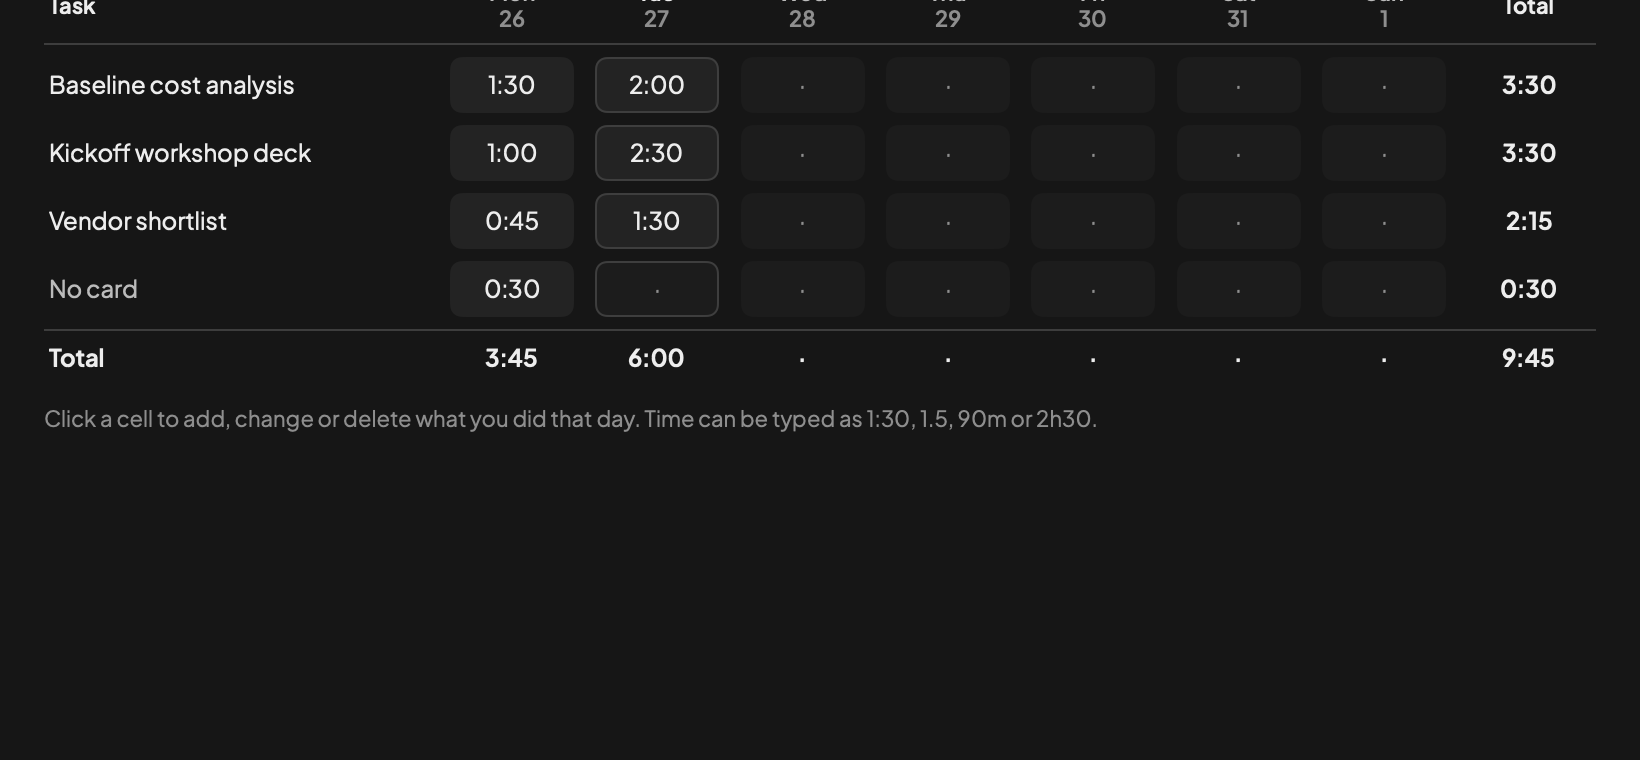
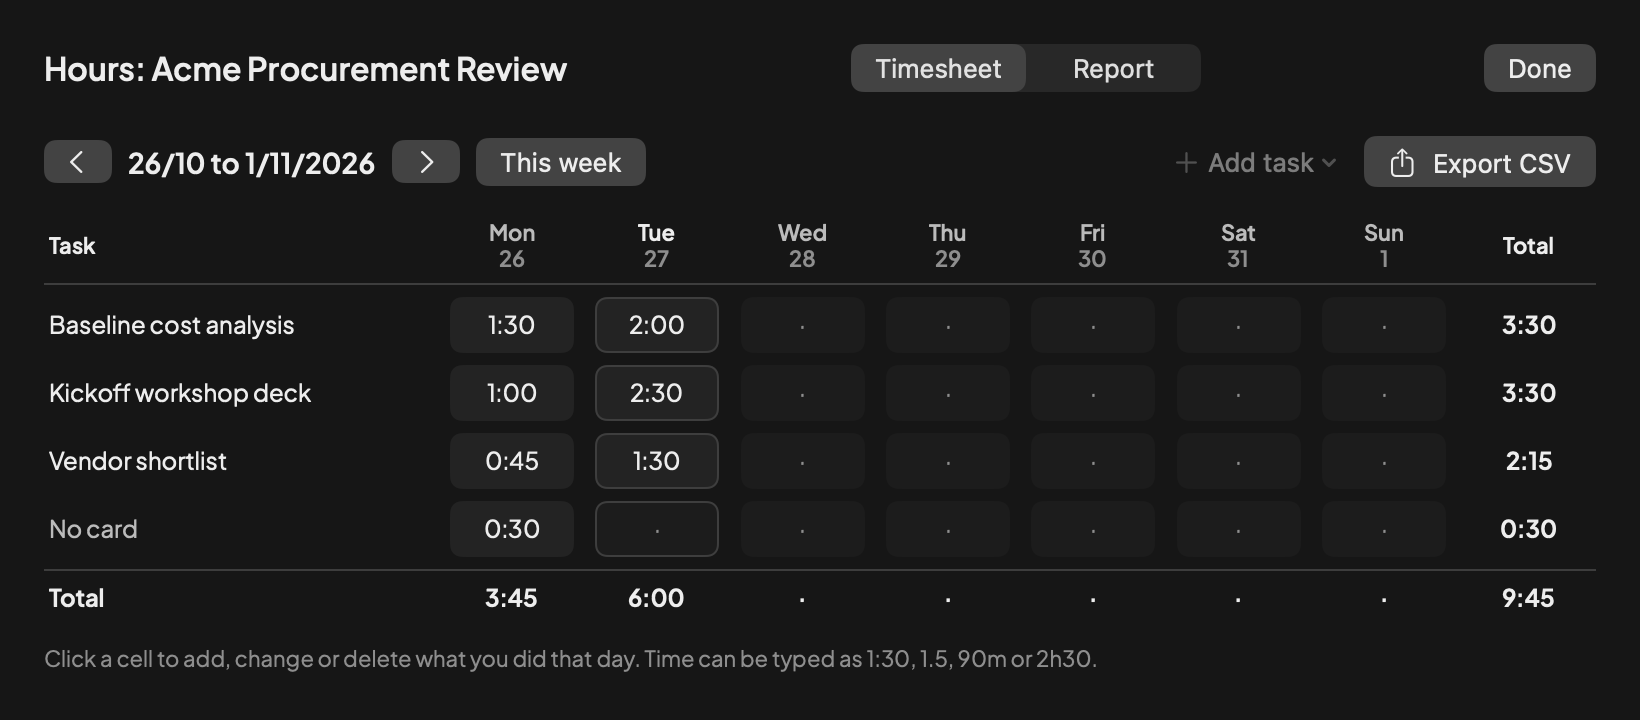
#6 Show the full Hours window in the README and drop source-origin comments

diff --git a/Sources/KanbanCore/TrelloImport.swift b/Sources/KanbanCore/TrelloImport.swift
@@ -1,6 +1,6 @@
 import Foundation
 
-/// Reads a Trello board as returned by the Trello REST API (the shape Kan's importer uses).
+/// Reads a Trello board as returned by the Trello REST API.
 /// Every field is optional so a missing key never aborts the import. Whether the file produced by Trello's
 /// "Export as JSON" has exactly these keys is not confirmed by the documentation I read; check with a real export.
 public enum TrelloImporter {
@@ -10,7 +10,7 @@ public enum TrelloImporter {
         public var errorDescription: String? { "This file does not look like a Trello board export." }
     }
 
-    // Colour names from Kan's `packages/api/src/utils/trello.ts`.
+    // Trello colour names mapped to hex.
     private static let colours: [String: String] = [
         "green": "#4bce97", "yellow": "#f5cd47", "orange": "#fea362", "red": "#f87168", "purple": "#9f8fef",
         "blue": "#579dff", "sky": "#6cc3e0", "lime": "#94c748", "pink": "#e774bb", "black": "#8590a2",
@@ -79,7 +79,7 @@ public enum TrelloImporter {
             details: card.desc ?? "",
             due: card.due.flatMap(parseDate),
             labels: (card.labels ?? []).compactMap { label in
-                // Same rule as Kan's importer: labels without a name are dropped.
+                // Labels without a name are dropped.
                 guard let name = label.name, !name.isEmpty else { return nil }
                 return ImportedBoard.Label(name: name, colour: colour(for: label.color))
             },

diff --git a/Sources/KanbanCore/Models.swift b/Sources/KanbanCore/Models.swift
@@ -1,7 +1,7 @@
 import Foundation
 import SwiftData
 
-/// Short stable id, same idea as the 12-char `publicId` columns in Kan's schema.
+/// Short stable id.
 /// Stays constant across sync snapshots, unlike SwiftData's persistent identifier.
 func makePublicId() -> String {
     String(UUID().uuidString.replacingOccurrences(of: "-", with: "").prefix(12)).lowercased()
@@ -413,8 +413,8 @@ public enum ReferenceKind: String, Codable, Sendable {
     public var isRemote: Bool { isGitHub || self == .email }
 }
 
-/// Pointer to a local file, folder or Obsidian note. Replaces Kan's S3 attachments:
-/// nothing is copied. Resolution (bookmark, then root + relativePath, then displayPath) comes in phase 2.
+/// Pointer to a local file, folder or Obsidian note. Nothing is copied.
+/// Resolution (bookmark, then root + relativePath, then displayPath) comes in phase 2.
 @Model
 public final class Reference {
     @Attribute(.unique) public var publicId: String

diff --git a/Sources/KanbanUI/Theme.swift b/Sources/KanbanUI/Theme.swift
@@ -14,7 +14,7 @@ extension Color {
     }
 }
 
-/// Dark palette ported from Kan's `tooling/tailwind/web.ts` (dark-50 ... dark-1000).
+/// Dark palette (dark-50 ... dark-1000).
 public enum Theme {
     public static let background = Color(hex: "#161616")
     public static let list = Color(hex: "#1c1c1c")
@@ -22,7 +22,7 @@ public enum Theme {
     public static let cardHover = Color(hex: "#282828")
     public static let border = Color(hex: "#3e3e3e")
     public static let divider = Color(hex: "#2e2e2e")
-    /// 4.5:1 or better on list, card and hover surfaces (checked); Kan's #707070 was about 3.2:1 on cards.
+    /// 4.5:1 or better on list, card and hover surfaces (checked).
     public static let muted = Color(hex: "#8e8e8e")
     public static let mutedStrong = Color(hex: "#bbbbbb")
     public static let text = Color(hex: "#ededed")

diff --git a/Sources/KanbanUI/Chrome.swift b/Sources/KanbanUI/Chrome.swift
@@ -1,6 +1,6 @@
 import SwiftUI
 
-/// Dot grid from Kan's `PatternedBackground.tsx`: 14.42 pt pitch, 0.45 pt radius, #3e3e3e, origin (10, 10).
+/// Dot grid: 14.42 pt pitch, 0.45 pt radius, #3e3e3e, origin (10, 10).
 struct PatternedBackground: View {
     var body: some View {
         Canvas { context, size in
@@ -99,7 +99,7 @@ extension View {
     func rowHighlight(selected: Bool = false) -> some View { modifier(HoverHighlight(selected: selected)) }
 }
 
-/// Header buttons: white primary ("New list") and bordered secondary ("Filter"), as in the Kan board header.
+/// Header buttons: white primary ("New list") and bordered secondary ("Filter").
 struct ToolbarButtonStyle: ButtonStyle {
     let primary: Bool
     /// A toggle that is switched on gets a lighter outline.

diff --git a/Sources/KanbanUI/ProjectActions.swift b/Sources/KanbanUI/ProjectActions.swift
@@ -2,9 +2,8 @@ import AppKit
 import KanbanCore
 import SwiftUI
 
-/// The project menu, after Kan's board menu (Edit board URL, Archive board, Add to favorites, Delete board).
-/// "Edit board URL" becomes the root folder, the closest thing a Boto project has to an address, and
-/// "Move to workspace" is left out because Boto has no workspaces.
+/// The project menu (root folder, archive, favorites, delete). The root folder is the closest thing a Boto
+/// project has to an address.
 enum ProjectMenu {
     static func entries(for project: Project, onRename: (() -> Void)? = nil,
                         onChooseRoot: @escaping () -> Void, onDelete: @escaping () -> Void) -> [DropdownEntry] {

diff --git a/Sources/KanbanCore/CardFilter.swift b/Sources/KanbanCore/CardFilter.swift
@@ -1,6 +1,6 @@
 import Foundation
 
-/// Same keys and ranges as Kan's `packages/shared/src/utils/dueDateFilters.ts`; ranges are [start, end).
+/// Ranges are [start, end).
 public enum DueDateFilter: String, CaseIterable, Sendable {
     case overdue, today, tomorrow, nextWeek, nextMonth, noDueDate
 
@@ -30,7 +30,7 @@ public enum DueDateFilter: String, CaseIterable, Sendable {
     }
 }
 
-/// Groups are ANDed; inside a group any selected value matches (OR), like Kan's board filters.
+/// Groups are ANDed; inside a group any selected value matches (OR).
 public struct CardFilter: Equatable {
     public var labelIds: Set<String> = []
     public var listIds: Set<String> = []

diff --git a/Sources/KanbanUI/DropdownMenu.swift b/Sources/KanbanUI/DropdownMenu.swift
@@ -14,7 +14,7 @@ struct DropdownEntry: Identifiable {
     static var divider: DropdownEntry { DropdownEntry(isDivider: true) }
 }
 
-/// The panel under the board's "..." button, after Kan's board menu: a dark rounded panel with an icon and a label
+/// The panel under the board's "..." button: a dark rounded panel with an icon and a label
 /// per row. A native macOS menu cannot be styled this way, and it hides icons unless asked.
 struct DropdownPanel: View {
     let entries: [DropdownEntry]

diff --git a/Sources/KanbanCore/Search.swift b/Sources/KanbanCore/Search.swift
@@ -12,7 +12,7 @@ public enum SearchResult: Identifiable {
     }
 }
 
-/// Local counterpart of Kan's `workspace.search`: matches project names and card titles, descriptions and label names.
+/// Matches project names and card titles, descriptions and label names.
 public enum Search {
     public static func results(for query: String, in projects: [Project], limit: Int = 20) -> [SearchResult] {
         let needle = query.trimmingCharacters(in: .whitespacesAndNewlines).lowercased()

diff --git a/Sources/KanbanUI/ColorChoice.swift b/Sources/KanbanUI/ColorChoice.swift
@@ -14,7 +14,7 @@ extension Color {
 }
 
 public enum Palette {
-    /// Tailwind 500 shades, same family the Kan UI draws its label colours from.
+    /// Tailwind 500 shades.
     public static let swatches: [(name: String, hex: String)] = [
         ("Red", "#ef4444"), ("Orange", "#f97316"), ("Amber", "#f59e0b"), ("Lime", "#84cc16"),
         ("Green", "#22c55e"), ("Teal", "#14b8a6"), ("Cyan", "#06b6d4"), ("Blue", "#3b82f6"),

diff --git a/Sources/KanbanUI/ImportSheet.swift b/Sources/KanbanUI/ImportSheet.swift
@@ -3,7 +3,7 @@ import SwiftData
 import SwiftUI
 import UniformTypeIdentifiers
 
-/// "New import" dialog, after Kan's: pick a source, preview what will be created, then import as a new project.
+/// "New import" dialog: pick a source, preview what will be created, then import as a new project.
 struct ImportSheet: View {
     enum Source: String, CaseIterable, Identifiable {
         case trello = "Trello", github = "GitHub"

diff --git a/Sources/KanbanUI/ProjectsView.swift b/Sources/KanbanUI/ProjectsView.swift
@@ -101,7 +101,7 @@ public struct ProjectsView: View {
 
     // MARK: Sidebar
 
-    /// Collapsible like Kan's `SideNavigation.tsx`: 256 pt with names, or a narrow rail with initials.
+    /// Collapsible: 256 pt with names, or a narrow rail with initials.
     private var sidebar: some View {
         VStack(alignment: .leading, spacing: 8) {
             HStack {

diff --git a/Sources/KanbanUI/CommandPalette.swift b/Sources/KanbanUI/CommandPalette.swift
@@ -2,7 +2,7 @@ import AppKit
 import KanbanCore
 import SwiftUI
 
-/// Search dialog modelled on Kan's `CommandPallette.tsx`: 550 pt wide, input on top, icon + title + context rows.
+/// Search dialog: 550 pt wide, input on top, icon + title + context rows.
 struct CommandPalette: View {
     let projects: [Project]
     let onSelect: (SearchResult) -> Void
